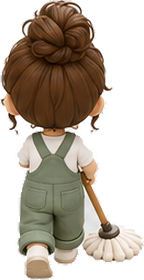
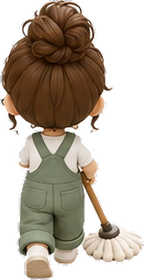
캐릭터 확대 + 잔여 배경 제거 + 그림자 위치·농도 조정
- 스프라이트 다리 사이 등에 배경(226,226,226)이 남아 흰 덩어리로 보이던 문제
  테두리 플러드필은 안쪽으로 물린 영역에 닿지 않는다
  → 배경색과 동일한 픽셀을 위치 무관하게 제거 후 헤일로 재정리 (12프레임 7015px)
- 그림자를 바닥선보다 ry*0.55 올려 캐릭터 몸에 완전히 가려지던 문제 → 0.18로 축소
- 그림자 농도 완화(코어 0.38→0.22, 확산 0.17→0.10)
- 접지면 측정 구간을 하단 20%→26%로 넓히고 최소 폭 보장
  (좁으면 캐릭터의 대걸레만 잡혀 그림자가 발에서 벗어남)
- 캐릭터 크기 2.55배/최소 15.5% — 5x5 298px, 7x7 238px
- 다리가 가늘어 그림자가 어긋나던 스툴을 장애물에서 제외, 책더미로 교체

Claude-Session: https://claude.ai/code/session_0111YUZQqwRvMGsnxcS6qdpi

diff --git a/js/render.js b/js/render.js
@@ -208,7 +208,8 @@ function footprint(img) {
   g.drawImage(img, 0, 0, S, S);
   const data = g.getImageData(0, 0, S, S).data;
   let minX = S, maxX = -1;
-  for (let y = Math.floor(S * 0.80); y < S; y++) {
+  // 하단 26% — 구간이 좁으면 캐릭터의 대걸레만 잡혀 그림자가 발에서 벗어난다
+  for (let y = Math.floor(S * 0.74); y < S; y++) {
     for (let x = 0; x < S; x++) {
       if (data[(y * S + x) * 4 + 3] > 70) {
         if (x < minX) minX = x;
@@ -217,7 +218,8 @@ function footprint(img) {
     }
   }
   const fp = maxX >= minX
-    ? { cx: (minX + maxX + 1) / 2 / S, w: (maxX - minX + 1) / S }
+    // 접지면이 지나치게 좁게 잡히면(가는 다리·막대 등) 그림자가 빈약해 보인다
+    ? { cx: (minX + maxX + 1) / 2 / S, w: Math.max((maxX - minX + 1) / S, 0.42) }
     : { cx: 0.5, w: 0.6 };
   fpCache.set(img, fp);
   return fp;
@@ -229,19 +231,23 @@ function footprint(img) {
  * 아래로 내려 그리거나 납작하게 늘이면 물체가 떠 보인다.
  */
 function contactShadow(ctx, cx, baseY, footW) {
-  const rx = footW * 0.56;
-  const ry = rx * 0.44;                        // 슬라이버가 아니라 둥글게
+  const rx = footW * 0.62;
+  const ry = rx * 0.46;                        // 슬라이버가 아니라 둥글게
+  // 중심을 바닥선보다 아주 조금만 올린다.
+  //  - 너무 내리면 그림자가 오브젝트 아래로 떨어져 보이고,
+  //  - 너무 올리면 오브젝트 뒤에 완전히 가려 발밑에 아무것도 안 보인다.
+  const cy = baseY - ry * 0.18;
   const draw = (s, a, blur) => {
     ctx.save();
     ctx.filter = `blur(${blur}px)`;
-    ctx.fillStyle = `rgba(66,46,30,${a})`;
+    ctx.fillStyle = `rgba(74,54,36,${a})`;
     ctx.beginPath();
-    ctx.ellipse(cx, baseY, rx * s, ry * s, 0, 0, Math.PI * 2);
+    ctx.ellipse(cx, cy, rx * s, ry * s, 0, 0, Math.PI * 2);
     ctx.fill();
     ctx.restore();
   };
-  draw(1.25, 0.15, ry * 0.8);                  // 넓고 옅은 확산
-  draw(0.90, 0.33, ry * 0.22);                 // 밑면에 붙는 코어
+  draw(1.34, 0.10, ry * 0.95);                 // 넓고 아주 옅은 확산
+  draw(0.94, 0.22, ry * 0.26);                 // 밑면에 붙는 코어
 }
 
 /** 스프라이트 밑면에 맞춘 접지 그림자 (캐릭터 등 외부에서도 사용) */
@@ -251,7 +257,7 @@ export function drawContactShadow(ctx, img, spriteLeft, spriteW, baseY) {
 }
 
 /** 오브젝트를 셀에 세운다 — 밑면이 셀 중앙보다 살짝 아래 */
-export function drawObject(ctx, img, c, r, cols, rows, scale, _key, baseOff = 0.14) {
+export function drawObject(ctx, img, c, r, cols, rows, scale, _key, baseOff = 0.10) {
   if (!img) return;
   const { x, y, cellH } = cellCenter(c, r, cols, rows);
   const h = cellH * scale, w = img.width * h / img.height;

diff --git a/js/game.js b/js/game.js
@@ -11,8 +11,8 @@ import {
 const MOVE_MS = 130;
 // 캐릭터 크기: 셀 높이에 비례하되 최소 크기를 보장한다.
 // 셀에만 비례시키면 7x7 같은 큰 판에서 배경 소품(고양이 139px)보다도 작아진다.
-const CHAR_SCALE = 1.9;                 // 셀 높이 배수
-const CHAR_MIN_H = VH * 0.115;          // 화면 높이 대비 최소 높이(약 177px)
+const CHAR_SCALE = 2.55;                // 셀 높이 배수
+const CHAR_MIN_H = VH * 0.155;          // 화면 높이 대비 최소 높이(약 238px)
 const OBST_SCALE = 1.05;
 
 const lerp = (a, b, t) => a + (b - a) * t;
@@ -274,7 +274,7 @@ export class Game {
     const hop = h.moving ? Math.sin(h.t * Math.PI) * cellH * 0.08 : 0;
 
     const ht = Math.max(cellH * CHAR_SCALE, CHAR_MIN_H), w = img.width * ht / img.height;
-    const baseY = cy + cellH * 0.14;
+    const baseY = cy + cellH * 0.10;
     // 그림자는 발 위치(고정)에, 캐릭터만 살짝 떠오르게 해야 점프감이 산다
     drawContactShadow(ctx, img, cx - w / 2, w, baseY);
     ctx.drawImage(img, cx - w / 2, baseY - ht - hop, w, ht);

diff --git a/CONCEPT.md b/CONCEPT.md
@@ -257,9 +257,12 @@
 - 원본: `assets/concept/char_sheet_src.png` (1536×1024, 3행×4열)
 - 배경 `(226,226,226)` 중성회색 → **테두리 플러드필 + 중성색 판정**으로 제거
   (흰 티셔츠·운동화·대걸레는 외곽선 안쪽이라 보존됨)
-- **흰 테두리(헤일로) 제거 필수 후처리**: 경계 픽셀 중 `min(RGB)>192 & 채도<24` 인
-  밝은 중성색을 2패스로 제거 후 알파 0.5px 블러. 12프레임에서 2,760px 정리.
-  (어두운 배경에 올려 검증할 것 — 숫자만으로는 흰옷과 구분 안 됨)
+- **잔여 배경 제거 — 두 단계 모두 필요**
+  1. 테두리 플러드필로는 **다리 사이처럼 안쪽으로 물린 영역이 남는다.**
+     배경색(226,226,226)과 사실상 동일한 픽셀(채도<9, 각 채널 ±14)을 위치와 무관하게 제거.
+  2. 그렇게 새로 드러난 경계의 밝은 중성색 헤일로를 2패스로 정리 후 알파 0.5px 블러.
+  12프레임에서 총 7,015px 제거.
+  > 어두운 배경에 올려 눈으로 검증할 것 — 숫자만으로는 흰옷·운동화와 구분되지 않는다.
 - 12컷을 연결요소로 자동 분리 후 방향별 재배치
   - `down` ← 정면 3컷 / `up` ← 뒷면 / `left` ← 측면 3/4
   - `right` ← **left 좌우반전** (게임 표준 방식)
